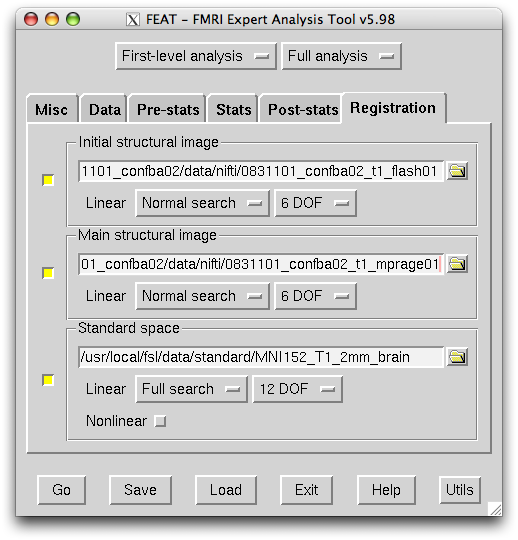
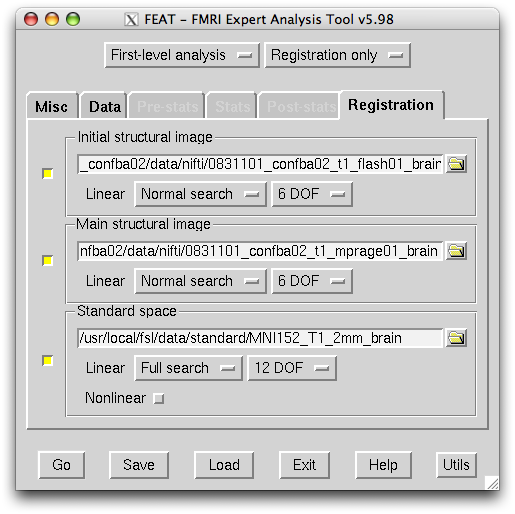
updating paths, changing the example data for the third-level tutorial, adding info about time series plots

diff --git a/doc/tutorial_thirdlevel/tutorial.rst b/doc/tutorial_thirdlevel/tutorial.rst
@@ -47,7 +47,7 @@ Our subject ID is "0831101_confba02", so run this command::
 
 This *README.txt* says your first step is to get some DICOM data and put it in a Gzipped TAR archive at *data/raw.tar.gz*. Like I mentioned, the data has already been collected. It's even TAR-ed and Gzipped. Hit "q" to quit *README.txt* and get the data with this command (NOTE: you must be on on a node, on rondo for this to work)::
 
- $ cp /exanet/ntb/packages/neuropipe/example_data/0831101_confba02.raw.tar.gz data/raw.tar.gz
+ $ cp /jukebox/ntb/packages/neuropipe/example_data/0831101_confba02.raw.tar.gz data/raw.tar.gz
 
 Email ntblab@gmail.com to request access to this data if you can't use the above command. NOTE: *cp* just copies files, and here we've directed it to copy data that was prepared specifically for this tutorial; it doesn't work in general to retrieve data after you've done a scan. On rondo at Princeton, you can use *~/prototype/link/scripts/retrieve-data-from-sun.sh* (which appears at *~/subjects/SUBJECT/scripts/retrieve-data-from-sun.sh*) to get your data, as long as your subject's folder name matches the subject ID used during for your scan session.
 
@@ -62,7 +62,7 @@ ERROR_RUN is listed for any scans that are not relevant to this tutorial.
  $ ./scaffold 0831101_confba02
  $ cd subjects/0831101_confba02
  $ less README.txt
- $ cp /exanet/ntb/packages/neuropipe/example_data/0831101_confba02.raw.tar.gz data/raw.tar.gz
+ $ cp /jukebox/ntb/packages/neuropipe/example_data/0831101_confba02.raw.tar.gz data/raw.tar.gz
  $ curl -k https://raw.github.com/ntblab/neuropipe-support/rc-0.3/doc/tutorial_thirdlevel/0831101_confba02_run-order.txt > run-order.txt
 
 
@@ -225,7 +225,7 @@ Close that window, and FEAT shows you a graph of your model. If it's different f
 
 .. image:: https://github.com/ntblab/neuropipe-support/raw/rc-0.3/doc/tutorial_thirdlevel/feat-model-graph.png
 
-Go to the Registration tab.
+Go to the Post-stats tab.
 
 **Summary**::
 
@@ -234,6 +234,14 @@ $ curl -k https://raw.github.com/ntblab/neuropipe-support/rc-0.3/doc/tutorial_th
 $ curl -k https://raw.github.com/ntblab/neuropipe-support/rc-0.3/doc/tutorial_thirdlevel/0831101_confba02_face1.txt > design/run1/face.txt
 $ less design/run1/house.txt
 $ less design/run1/face.txt
+
+
+The Post-stats tab
+''''''''''''''''''''
+
+As has been mentioned before, in the interest of saving space on Princeton's server (or in general), uncheck 'create time series plots' if you're not interested in seeing those plots. This will prevent a lot of unnecessary files from being made. Next, go to the registration tab.
+
+.. image:: https://github.com/ntblab/neuropipe-support/raw/rc-0.3/doc/tutorial_thirdlevel/feat-poststats.png
 
 
 The Registration tab
@@ -247,11 +255,21 @@ Different subjects have different shaped brains, and may have been in different 
 
 The subject's functional data is first registered to the initial structural image, then that is registered to the main structural image, which is then registered to the standard space image. All this indirection is necessary because registration can fail, and it's more likely to fail if you try to go directly from the functional data to standard space.
 
-FEAT should already have a "Standard space" image selected; leave it with the default, but change the drop-down menu from "Normal search" to "Full search", and set the other menu to "12 DOF" or this subject's brain will be misregistered. Check "Initial structural image", and select the file *data/nifti/0831101_confba02_t1_flash01.nii.gz*. Keep the drop-down menu at "Normal search" and change the other menu to "6 DOF". Check "Main structural image", and select the file *data/nifti/0831101_confba02_t1_mprage01.nii.gz*. Make sure "Normal search" and "6 DOF" are set for the main structural image as well.
+Another way to aid registration is by skull stripping the anatomical images that are used. To do that, run the FSL command 'bet' on both images:
+
+$ bet data/nifti/0831101_confba02_t1_flash01.nii.gz data/nifti/0831101_confba02_t1_flash01_brain.nii.gz
+$ bet data/nifti/0831101_confba02_t1_mprage01.nii.gz data/nifti/0831101_confba02_t1_mprage01_brain.nii.gz
+
+FEAT should already have a "Standard space" image selected; leave it with the default, but change the drop-down menu from "Normal search" to "Full search", and set the other menu to "12 DOF" or this subject's brain will be misregistered. Check "Initial structural image", and select the file *data/nifti/0831101_confba02_t1_flash01_brain.nii.gz*. Keep the drop-down menu at "Normal search" and change the other menu to "6 DOF". Check "Main structural image", and select the file *data/nifti/0831101_confba02_t1_mprage01_brain.nii.gz*. Make sure "Normal search" and "6 DOF" are set for the main structural image as well.
 
 .. image:: https://github.com/ntblab/neuropipe-support/raw/rc-0.3/doc/tutorial_thirdlevel/feat-registration.png
 
 That's it! Hit Go. A webpage should open in your browser showing FEAT's progress. Once it's done, this webpage provides a useful summary of the analysis you just ran with FEAT. After making sure that no errors occurred during the analysis, let's continue hunting the PPA.
+
+**Summary**::
+
+$ bet data/nifti/0831101_confba02_t1_flash01.nii.gz data/nifti/0831101_confba02_t1_flash01_brain.nii.gz
+$ bet data/nifti/0831101_confba02_t1_mprage01.nii.gz data/nifti/0831101_confba02_t1_mprage01_brain.nii.gz
 
 
 Finding the PPA
@@ -298,8 +316,8 @@ Make the following replacements and save the file. Be sure to include the spaces
   #. on the line starting with "set feat_files(1)", replace all of the text inside the quotes with "<?= $DATA_FILE_PREFIX ?>"
   #. on the line starting with "set initial_highres_files(1) ", replace all of the text inside the quotes with "<?= $INITIAL_HIGHRES_FILE ?>"
   #. on the line starting with "set highres_files(1)", replace all of the text inside the quotes with "<?= $HIGHRES_FILE ?>"
-  #. on the line starting with "set fmri(custom1)", replace all of the text inside the quotes with "<?= $EV1 ?>"
-  #. on the line starting with "set fmri(custom2)", replace all of the text inside the quotes with "<?= $EV2 ?>"
+  #. on the line starting with "set fmri(custom1)", replace all of the text inside the quotes with "<?= $EV_DIR ?>/house.txt"
+  #. on the line starting with "set fmri(custom2)", replace all of the text inside the quotes with "<?= $EV_DIR ?>/face.txt"
 
 Those bits you replaced with placeholders are the parameters that must change when analyzing a different run, a new subject, or using a different computer. After saving the file, copy it to the prototype so it's available for future subjects::
 
@@ -331,20 +349,22 @@ It consists of a function called render_firstlevel, which we'll use to render th
                     $FIRSTLEVEL_DIR/localizer_hrf_01.feat \
                     $FSL_DIR/data/standard/MNI152_T1_2mm_brain \
                     $NIFTI_DIR/${SUBJ}_localizer01 \
-                    $NIFTI_DIR/${SUBJ}_t1_flash01.nii.gz \
-                    $NIFTI_DIR/${SUBJ}_t1_mprage01.nii.gz \
-                    $EV_DIR/run1/house.txt \
-                    $EV_DIR/run1/face.txt \
+                    $NIFTI_DIR/${SUBJ}_t1_flash01_brain.nii.gz \
+                    $NIFTI_DIR/${SUBJ}_t1_mprage01_brain.nii.gz \
+                    . \
+                    . \
+                    $EV_DIR/run1 \
                     > $FSF_DIR/localizer_hrf_01.fsf
 
   render_firstlevel $FSF_DIR/localizer_hrf.fsf.template \
                     $FIRSTLEVEL_DIR/localizer_hrf_02.feat \
                     $FSL_DIR/data/standard/MNI152_T1_2mm_brain \
                     $NIFTI_DIR/${SUBJ}_localizer02 \
-                    $NIFTI_DIR/${SUBJ}_t1_flash01.nii.gz \
-                    $NIFTI_DIR/${SUBJ}_t1_mprage01.nii.gz \
-                    $EV_DIR/run2/house.txt \
-                    $EV_DIR/run2/face.txt \
+                    $NIFTI_DIR/${SUBJ}_t1_flash01_brain.nii.gz \
+                    $NIFTI_DIR/${SUBJ}_t1_mprage01_brain.nii.gz \
+                    . \
+                    . \
+                    $EV_DIR/run2 \
                     > $FSF_DIR/localizer_hrf_02.fsf
                     
 That hunk of code calls the function render_firstlevel, passing it the values to substitute for the template's placeholders. Each chunk of code will create a new design.fsf file, one for each localizer run. This will be useful when analyzing the next subject's data. The values in this script use a bunch of completely-uppercase variables, which are defined in *globals.sh*.  Examine *globals.sh*::
@@ -373,10 +393,14 @@ Then fill it with this text::
 
   #!/bin/bash
   source globals.sh
+  
+  bet $NIFTI_DIR/${SUBJ}_t1_flash01.nii.gz $NIFTI_DIR/${SUBJ}_t1_flash01_brain.nii.gz
+  bet $NIFTI_DIR/${SUBJ}_t1_mprage01.nii.gz $NIFTI_DIR/${SUBJ}_t1_mprage01_brain.nii.gz
+
   feat $FSF_DIR/localizer_hrf_01.fsf
   feat $FSF_DIR/localizer_hrf_02.fsf
   
-The first line says that this is a BASH script. The second line loads variables from *globals.sh*. The the last two lines call *feat*, which runs FEAT without the graphical interface. The argument passed to *feat* is the path to the fsf file for it to use. Notice that the path is specified with a variable "$FSF_DIR", which is defined in *globals.sh*.
+The first line says that this is a BASH script. The second line loads variables from *globals.sh*. The next two lines skull strip the two anatomical images to be used for registration, and the last two lines call *feat*, which runs FEAT without the graphical interface. The argument passed to *feat* is the path to the fsf file for it to use. Notice that the path is specified with a variable "$FSF_DIR", which is defined in *globals.sh*.
 
 Now that we have a script for running the GLM analysis, we'll call it from *analyze.sh* so that one command does the entire analysis. Open *analyze.sh* in your text editor::
 
@@ -651,13 +675,13 @@ This subject's stimuli order was slightly different. Instead of beginning with f
   $ mkdir design/run1
   $ mkdir design/run2
   $ curl -k https://raw.github.com/ntblab/neuropipe-support/rc-0.3/doc/tutorial_thirdlevel/0831102_confba02_house1.txt > design/run1/house.txt
-  $ curl -k https://raw.github.com/ntblab/neuropipe-support/rc-0.3/doc/tutorial_thirdlevel/0831102_confba02_face1.txt > design/run1/face.txt
+  $ s
   $ curl -k https://raw.github.com/ntblab/neuropipe-support/rc-0.3/doc/tutorial_thirdlevel/0831102_confba02_house2.txt > design/run2/house.txt
   $ curl -k https://raw.github.com/ntblab/neuropipe-support/rc-0.3/doc/tutorial_thirdlevel/0831102_confba02_face2.txt > design/run2/face.txt
 
 We already made a template for the localizer run that works for different subjects, edited scripts/render-fsf-templates.sh to make a unique design file for each run, and created localizer.sh to run the two Feat analyses. Because we already copied these files into *~/protoype*, these changes will be present in the new subject's directory. All that's left is to collect the data and then run the analysis! First, get the subject's data (NOTE: you must be on rondo for this to work)::
 
-  $ cp /exanet/ntb/packages/neuropipe/example_data/0831102_confba02.raw.tar.gz data/raw.tar.gz
+  $ cp /jukebox/ntb/packages/neuropipe/example_data/0831102_confba02.raw.tar.gz data/raw.tar.gz
 
 As before, it will prompt you to enter a password; email ntblab@princeton.edu to request access to this data.
 
@@ -678,7 +702,7 @@ FEAT should be churning away on the new data. Take some time to look over the QA
   $ curl -k https://raw.github.com/ntblab/neuropipe-support/rc-0.3/doc/tutorial_thirdlevel/0831102_confba02_face1.txt > design/run1/face.txt
   $ curl -k https://raw.github.com/ntblab/neuropipe-support/rc-0.3/doc/tutorial_thirdlevel/0831102_confba02_house2.txt > design/run2/house.txt
   $ curl -k https://raw.github.com/ntblab/neuropipe-support/rc-0.3/doc/tutorial_thirdlevel/0831102_confba02_face2.txt > design/run2/face.txt
-  $ cp /exanet/ntb/packages/neuropipe/example_data/0831102_confba02.raw.tar.gz data/raw.tar.gz
+  $ cp /jukebox/ntb/packages/neuropipe/example_data/0831102_confba02.raw.tar.gz data/raw.tar.gz
   $ ./analyze.sh
 
 
@@ -722,11 +746,18 @@ Go to the Stats tab.
 The Stats tab
 '''''''''''''
 
-Click "Model setup wizard", leave it on the default option of "single group average", and click "Process". Keep the drop-down menu on 'Mixed Effecs: FLAME 1.' That's it! Hit "Go" to run the analysis.
+Click "Model setup wizard", leave it on the default option of "single group average", and click "Process". Keep the drop-down menu on 'Mixed Effecs: FLAME 1.' 
+
+
+The Post-stats tab
+''''''''''''''''''''
+
+Again, in the interest of saving space on Princeton's server (or in general), uncheck 'create time series plots' if you're not interested in seeing those plots. That's it! Hit "Go" to run the analysis.
 
 .. image:: https://github.com/ntblab/neuropipe-support/raw/rc-0.3/doc/tutorial_thirdlevel/group-feat-stats.png
 
 When the analysis is finished, check the logs to make sure everything looks normal -- for example, that the two subjects' brains were registered correctly to standard space.
+
 
 Automating the group analysis
 =============================
@@ -862,7 +893,7 @@ Automating the entire analysis
 
    ~/ppa-hunt2
 
-Our goal was to run the entire analysis with a single command, to make it easy to reproduce. We're close. Open *analyze.sh* in your text editor::
+Our goal was to run the entire analysis with a single command, to make it easy to reproduce. We're close. Open *analyze-group.sh* in your text editor::
 
   $ nano analyze-group.sh
 

diff --git a/doc/tutorial_secondlevel/tutorial.rst b/doc/tutorial_secondlevel/tutorial.rst
@@ -59,7 +59,7 @@ Our subject ID is "0608101_conatt02", so run this command::
 
 This *README.txt* says your first step is to get some DICOM data and put it in a Gzipped TAR archive at *data/raw.tar.gz*. Like I mentioned, the data has already been collected. It's even TAR-ed and Gzipped. Hit "q" to quit *README.txt* and get the data with this command (NOTE: you must qrsh to a node on rondo for this to work)::
 
-  $ cp /exanet/ntb/packages/neuropipe/example_data/0608101_conatt02.raw.tar.gz data/raw.tar.gz
+  $ cp /jukebox/ntb/packages/neuropipe/example_data/0608101_conatt02.raw.tar.gz data/raw.tar.gz
 
 If you are not a part of the Princeton University network, or if you are not permitted to copy this file, email ntblab@princeton.edu to request access to this data. NOTE: *cp* just copies files, and here we've directed it to copy data that was prepared for this tutorial; it doesn't work in general to retrieve data after you've done a scan. On rondo at Princeton, you can use *~/prototype/link/scripts/retrieve-data-from-sun.sh* (which appears at *~/subjects/SUBJ/scripts/retrieve-data-from-sun.sh*) to get your data, as long as your subject's folder name matches the subject ID used during for your scan session.
 
@@ -68,7 +68,7 @@ If you are not a part of the Princeton University network, or if you are not per
   $ ./scaffold 0608101_conatt02
   $ cd subjects/0608101_conatt02
   $ less README.txt
-  $ cp /exanet/ntb/packages/neuropipe/example_data/0608101_conatt02.raw.tar.gz data/raw.tar.gz
+  $ cp /jukebox/ntb/packages/neuropipe/example_data/0608101_conatt02.raw.tar.gz data/raw.tar.gz
 
 
 Preparing your data for analysis
@@ -247,6 +247,18 @@ Go to the Registration tab.
   $ less design/face.txt
 
 
+The Post-stats tab
+''''''''''''''''''''
+
+.. admonition:: you are here
+
+   ~/ppa-hunt/subjects/0608101_conatt02
+   
+This step is optional, but strongly recommended if you are working on Princeton's server (rondo). In order to save space on the server and avoid creating unnecessary files, uncheck 'create time series plots.'
+
+.. image:: https://github.com/ntblab/neuropipe-support/raw/rc-0.3/doc/tutorial_secondlevel/feat-poststats.png
+   
+
 The Registration tab
 ''''''''''''''''''''
 
@@ -258,7 +270,7 @@ Different subjects have different shaped brains, and may have been in different 
 
 The subject's functional data is first registered to the initial structural image, then that is registered to the main structural image, which is then registered to the standard space image. All this indirection is necessary because registration can fail, and it's more likely to fail if you try to go directly from the functional data to standard space.
 
-FEAT should already have a "Standard space" image selected; leave it with the default, but change the drop-down menu from "Normal search" to "No search", or this subject's brain will be misregistered. Check "Initial structural image", and select the file *data/nifti/0608101_conatt02_t1_flash01.nii.gz*. Check "Main structural image", and select the file *data/nifti/0608101_conatt02_t1_mprage_sag01.nii.gz*.
+FEAT should already have a "Standard space" image selected; leave it with the default, but change the drop-down menu from "Normal search" to "No search", or this subject's brain will be misregistered. Check "Initial structural image", and select the file *data/nifti/0608101_conatt02_t1_flash01.nii.gz*. Change the DOF from '3 (translation only)' to '6'. Check "Main structural image", and select the file *data/nifti/0608101_conatt02_t1_mprage_sag01.nii.gz*.
 
 .. image:: https://github.com/ntblab/neuropipe-support/raw/rc-0.3/doc/tutorial_secondlevel/feat-registration.png
 
@@ -414,7 +426,7 @@ Move into that subject's directory::
 
 Get the subject's data (NOTE: you must be on a node, on rondo for this to work)::
 
-  $ cp /exanet/ntb/packages/neuropipe/example_data/0608102_conatt02.raw.tar.gz data/raw.tar.gz
+  $ cp /jukebox/ntb/packages/neuropipe/example_data/0608102_conatt02.raw.tar.gz data/raw.tar.gz
 
 As before, if you don't have access to this file; email ntblab@princeton.edu to request access.
 
@@ -432,7 +444,7 @@ FEAT should be churning away on the new data.
   $ cd ../../
   $ ./scaffold 0608102_conatt02
   $ cd subjects/0608102_conatt02
-  $ cp /exanet/ntb/packages/neuropipe/example_data/0608102_conatt02.raw.tar.gz data/raw.tar.gz
+  $ cp /jukebox/ntb/packages/neuropipe/example_data/0608102_conatt02.raw.tar.gz data/raw.tar.gz
   $ ./analyze.sh
 
 
@@ -476,9 +488,15 @@ Go to the Stats tab.
 The Stats tab
 '''''''''''''
 
-Click "Model setup wizard", leave it on the default option of "single group average", and click "Process". Make sure the top drop-down menu it set to 'Mixed Effects: FLAME 1.' That's it! Hit "Go" to run the analysis.
+Click "Model setup wizard", leave it on the default option of "single group average", and click "Process". Make sure the top drop-down menu it set to 'Mixed Effects: FLAME 1.'
 
 .. image:: https://github.com/ntblab/neuropipe-support/raw/rc-0.3/doc/tutorial_secondlevel/group-feat-stats.png
+
+
+The Post-stats tab
+'''''''''''''
+
+Again, turn off the 'create time series plots' function to avoid making many unnecessary files, unless you specifically want them. And that's it! Hit "Go" to run the analysis.
 
 
 Finding the group's PPA

diff --git a/doc/tutorial_fir/tutorial.rst b/doc/tutorial_fir/tutorial.rst
@@ -51,7 +51,7 @@ Our subject ID is "0223101_conatt01", so run this command::
 
 This *README.txt* says your first step is to get some DICOM data and put it in a Gzipped TAR archive at *data/raw.tar.gz*. This data has already been collected for you. Hit "q" to quit *README.txt* and get the data with this command (NOTE: you must be on rondo for this to work)::
 
-  $ cp /exanet/ntb/packages/neuropipe/example_data/0223101_conatt01.raw.tar.gz data/raw.tar.gz
+  $ cp /jukebox/ntb/packages/neuropipe/example_data/0223101_conatt01.raw.tar.gz data/raw.tar.gz
 
 Email ntblab@gmail.com to request access to this data if you cannot access it on your own. NOTE: *cp* just copies files, and here we've directed it to copy data that was prepared for this tutorial; it doesn't work in general to retrieve data after you've done a scan. On rondo at Princeton, you can use *~/prototype/link/scripts/retrieve-data-from-sun.sh* (which appears at *~/subjects/SUBJ/scripts/retrieve-data-from-sun.sh*) to get your data, as long as your subject's folder name matches the subject ID used during for your scan session.
 
@@ -60,7 +60,7 @@ Email ntblab@gmail.com to request access to this data if you cannot access it on
   $ ./scaffold 0223101_conatt01
   $ cd subjects/0223101_conatt01
   $ less README.txt
-  $ cp /exanet/ntb/packages/neuropipe/example_data/0223101_conatt01.raw.tar.gz data/raw.tar.gz
+  $ cp /jukebox/ntb/packages/neuropipe/example_data/0223101_conatt01.raw.tar.gz data/raw.tar.gz
 
 Preparing your data for analysis
 --------------------------------
@@ -238,6 +238,13 @@ Now go to the "Contrasts & F-tests" tab. Increase "Contrasts" to 5. There is now
 Click 'Done', and FEAT shows you a graph of your model. If it's different from the one below, check you followed the instructions correctly.
 
 .. image:: https://github.com/ntblab/neuropipe-support/raw/rc-0.3/doc/tutorial_fir/feat-graph-model.png
+
+The Post-stats tab
+''''''''''''''''''''
+
+Go to the post-stats tab. Again, in the interest of saving space on Princeton's server (or in general), uncheck 'create time series plots' if you're not interested in seeing those plots.
+
+.. image:: https://github.com/ntblab/neuropipe-support/raw/rc-0.3/doc/tutorial_fir/feat-poststats.png
 
 Go to the Registration tab.
 
